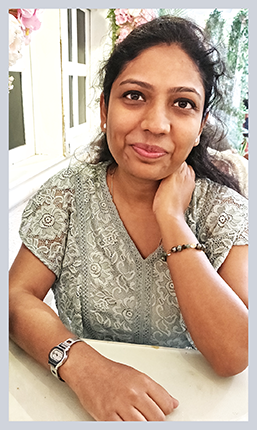
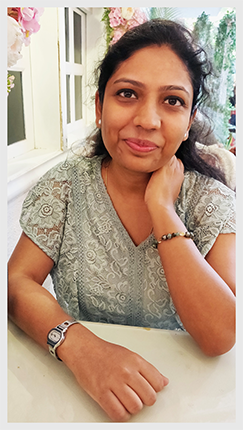
Changed Portrait

diff --git a/index.html b/index.html
@@ -77,7 +77,7 @@
 
                 </div>
                 <div class="col-md-6 text-center">
-                    <img src="./img/Portrait_Frame430.png" class="img-fluid" style="max-height: 350px;">
+                    <img src="./img/Portrait_Frame430.png" class="img-fluid" style="max-height: 400px;">
                 </div>
             </div>
         </section> <!-- End of Home Section -->
@@ -143,7 +143,7 @@
 
                 <div class="row mb-3">
                     <div class="col">
-                        <h6>SAUMITRA - Pune, India</h6>
+                        <h6>SAUMITRA - Indore, India</h6>
                     </div>
                 </div>
 
@@ -160,7 +160,7 @@
 
                 <div class="row mb-3">
                     <div class="col">
-                        <h6>TANVI - Pune, India</h6>
+                        <h6>TANVI - Mumbai, India</h6>
                     </div>
                 </div>
 
@@ -227,7 +227,7 @@
     </div> <!-- End of Main Container -->
     
     
-    <script src="http://code.jquery.com/jquery-3.4.1.min.js" integrity="sha256-CSXorXvZcTkaix6Yvo6HppcZGetbYMGWSFlBw8HfCJo=" crossorigin="anonymous"></script>
+    <script src="https://code.jquery.com/jquery-3.4.1.min.js" integrity="sha256-CSXorXvZcTkaix6Yvo6HppcZGetbYMGWSFlBw8HfCJo=" crossorigin="anonymous"></script>
     <script src="https://cdn.jsdelivr.net/npm/popper.js@1.16.0/dist/umd/popper.min.js" integrity="sha384-Q6E9RHvbIyZFJoft+2mJbHaEWldlvI9IOYy5n3zV9zzTtmI3UksdQRVvoxMfooAo" crossorigin="anonymous"></script>
     <script src="https://stackpath.bootstrapcdn.com/bootstrap/4.4.1/js/bootstrap.min.js" integrity="sha384-wfSDF2E50Y2D1uUdj0O3uMBJnjuUD4Ih7YwaYd1iqfktj0Uod8GCExl3Og8ifwB6" crossorigin="anonymous"></script>
     <script>
